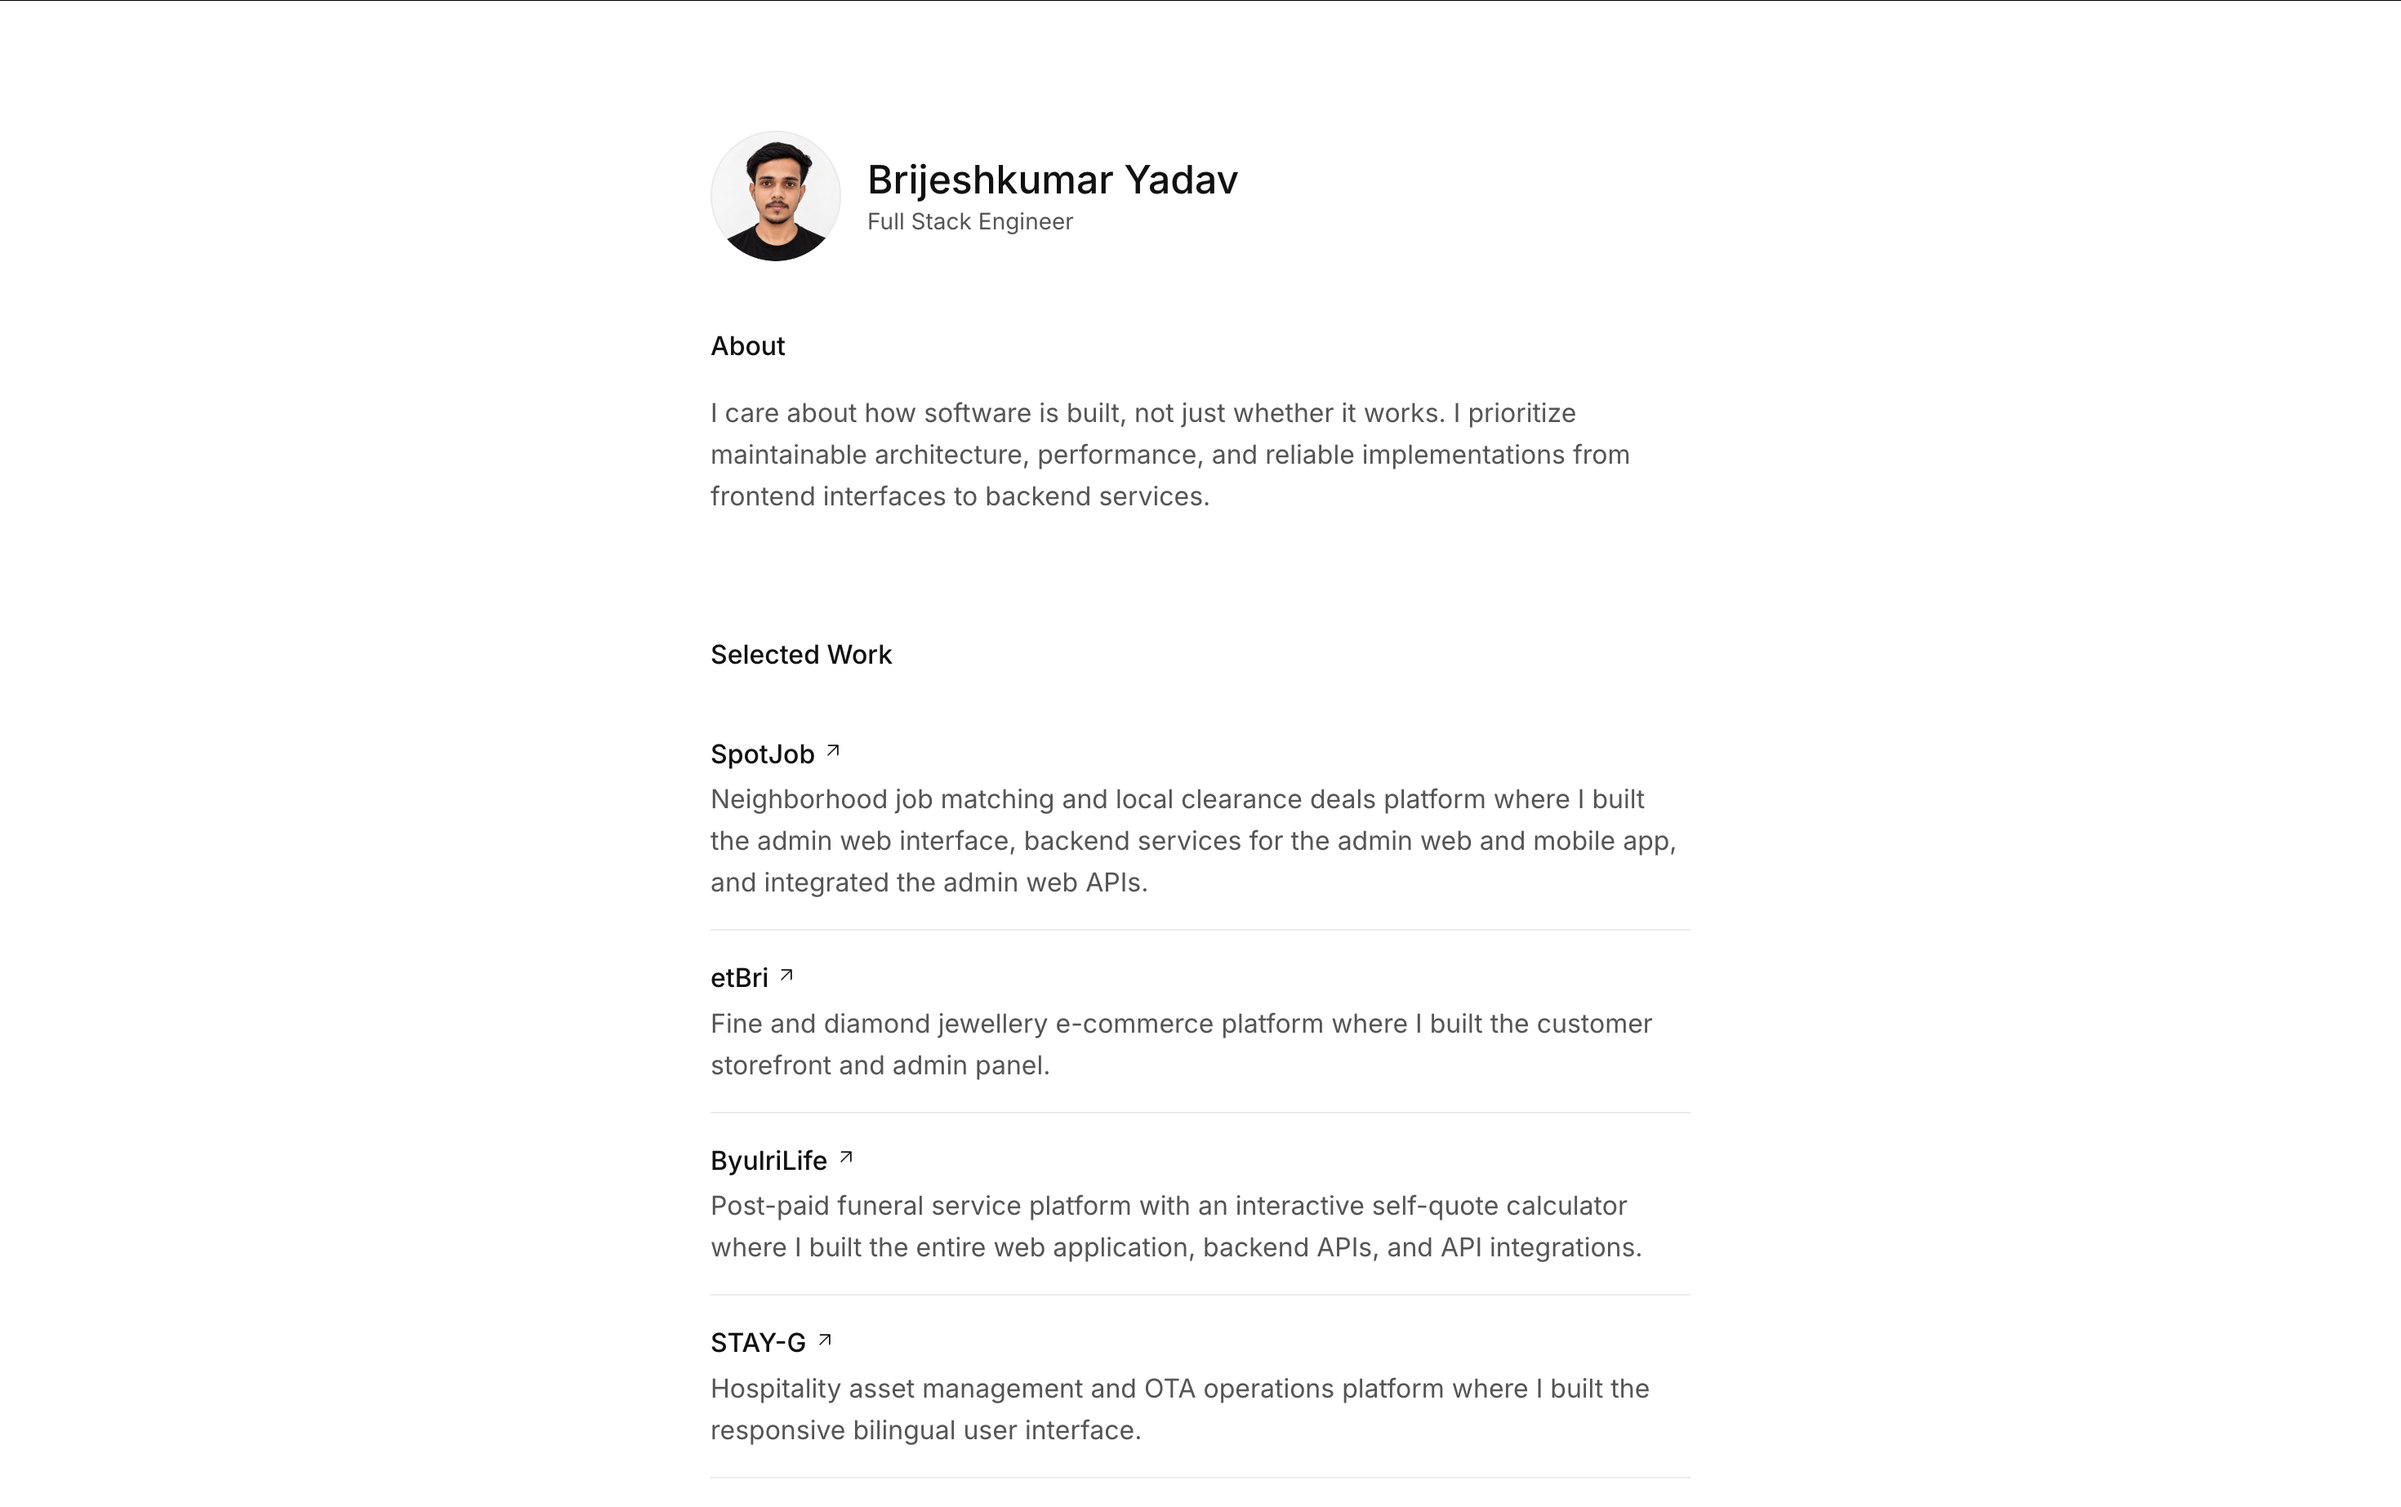
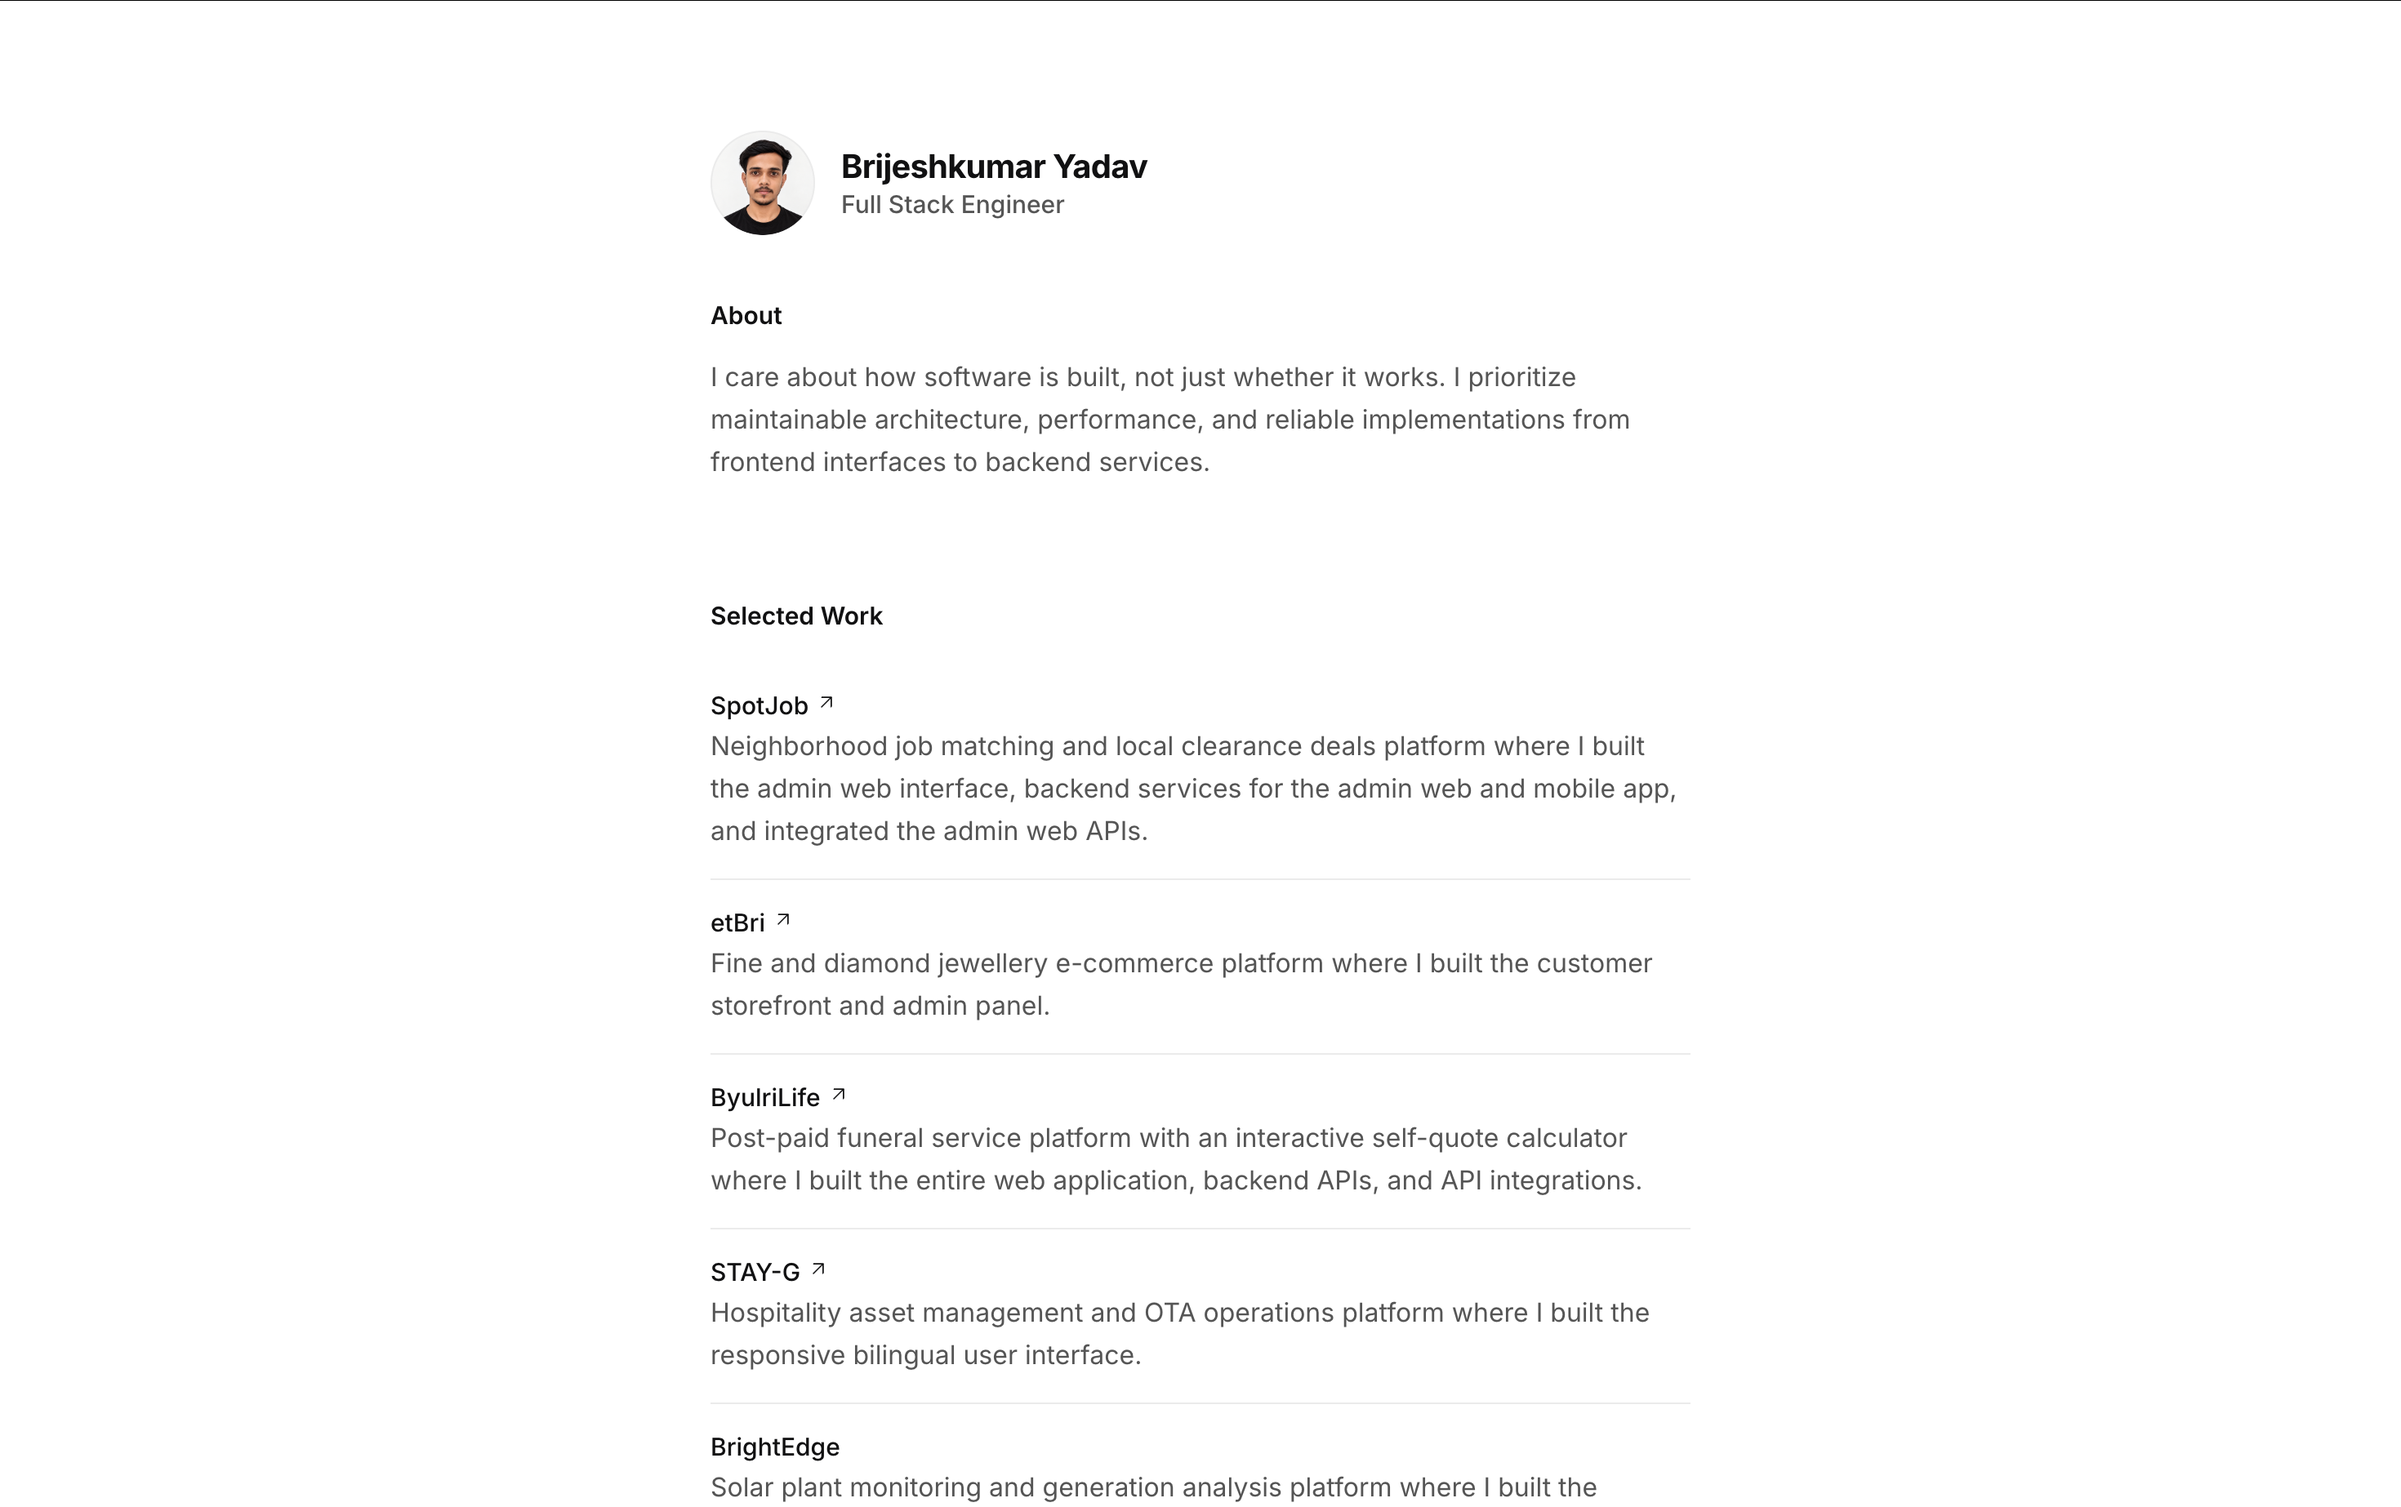
Refresh portfolio typography and screenshots

Changed region(s): [[0.2786, 0.4014, 0.681, 1.0], [0.2786, 0.2161, 0.681, 0.3397], [0.3095, 0.0926, 0.5262, 0.1853]]

diff --git a/src/components/elsewhere.tsx b/src/components/elsewhere.tsx
@@ -5,14 +5,14 @@ export function Elsewhere() {
     <section aria-labelledby="elsewhere-heading" className="mt-18 w-full">
       <h2
         id="elsewhere-heading"
-        className="mb-5 text-base/6 font-medium text-foreground"
+        className="mb-5 text-[15px]/[18px] font-semibold text-foreground"
       >
         Elsewhere
       </h2>
       <dl className="space-y-1">
         <div className="grid grid-cols-1 gap-1 py-3 min-[481px]:grid-cols-[112px_minmax(0,1fr)] min-[481px]:gap-4">
           <dt className="text-sm/6 text-muted-foreground">X</dt>
-          <dd className="m-0 text-base/[1.6] text-foreground">
+          <dd className="m-0 text-base/[26px] text-foreground">
             <a
               className="inline-flex items-center gap-1 underline-offset-4 hover:underline"
               href="https://x.com/brijeshmarch"
@@ -30,7 +30,7 @@ export function Elsewhere() {
         </div>
         <div className="grid grid-cols-1 gap-1 py-3 min-[481px]:grid-cols-[112px_minmax(0,1fr)] min-[481px]:gap-4">
           <dt className="text-sm/6 text-muted-foreground">LinkedIn</dt>
-          <dd className="m-0 text-base/[1.6] text-foreground">
+          <dd className="m-0 text-base/[26px] text-foreground">
             <a
               className="inline-flex items-center gap-1 underline-offset-4 hover:underline"
               href="https://www.linkedin.com/in/brijeshmarch16"
@@ -48,7 +48,7 @@ export function Elsewhere() {
         </div>
         <div className="grid grid-cols-1 gap-1 py-3 min-[481px]:grid-cols-[112px_minmax(0,1fr)] min-[481px]:gap-4">
           <dt className="text-sm/6 text-muted-foreground">GitHub</dt>
-          <dd className="m-0 text-base/[1.6] text-foreground">
+          <dd className="m-0 text-base/[26px] text-foreground">
             <a
               className="inline-flex items-center gap-1 underline-offset-4 hover:underline"
               href="https://github.com/brijeshmarch16"
@@ -66,7 +66,7 @@ export function Elsewhere() {
         </div>
         <div className="grid grid-cols-1 gap-1 py-3 min-[481px]:grid-cols-[112px_minmax(0,1fr)] min-[481px]:gap-4">
           <dt className="text-sm/6 text-muted-foreground">Email</dt>
-          <dd className="m-0 text-base/[1.6] text-foreground">
+          <dd className="m-0 text-base/[26px] text-foreground">
             <a
               className="inline-flex max-w-full items-center gap-1 break-all underline-offset-4 hover:underline"
               href="mailto:brijeshkumaryadav2026@gmail.com"

diff --git a/src/components/intro.tsx b/src/components/intro.tsx
@@ -5,15 +5,20 @@ export function Intro() {
     <section aria-labelledby="intro-heading" className="w-full">
       <header>
         <div className="flex items-center gap-4">
-          <Avatar className="size-20">
+          <Avatar className="size-16">
             <AvatarImage src="/me.png" alt="Brijeshkumar Yadav" />
             <AvatarFallback>BY</AvatarFallback>
           </Avatar>
           <div className="min-w-0">
-            <h1 id="intro-heading" className="text-2xl/[1.3] font-medium">
+            <h1
+              id="intro-heading"
+              className="text-[20px]/[26px] font-bold tracking-[-0.02em]"
+            >
               Brijeshkumar Yadav
             </h1>
-            <p className="text-sm text-muted-foreground">Full Stack Engineer</p>
+            <p className="text-[15px]/[20px] font-medium text-muted-foreground">
+              Full Stack Engineer
+            </p>
           </div>
         </div>
       </header>
@@ -21,11 +26,11 @@ export function Intro() {
       <section aria-labelledby="about-heading" className="mt-10">
         <h2
           id="about-heading"
-          className="mb-4 text-base/6 font-medium text-foreground"
+          className="mb-4 text-[15px]/[18px] font-semibold text-foreground"
         >
           About
         </h2>
-        <p className="text-base/[1.6] text-muted-foreground">
+        <p className="text-base/[26px] text-muted-foreground">
           I care about how software is built, not just whether it works. I
           prioritize maintainable architecture, performance, and reliable
           implementations from frontend interfaces to backend services.

diff --git a/src/components/experience.tsx b/src/components/experience.tsx
@@ -35,7 +35,7 @@ export function Experience() {
     <section aria-labelledby="experience-heading" className="mt-12 w-full">
       <h2
         id="experience-heading"
-        className="mb-5 text-base/6 font-medium text-foreground"
+        className="mb-5 text-[15px]/[18px] font-semibold text-foreground"
       >
         Work Experience
       </h2>
@@ -46,11 +46,11 @@ export function Experience() {
             key={`${item.role}-${item.period}`}
             className="grid grid-cols-1 gap-1 py-4 sm:grid-cols-[minmax(0,1fr)_minmax(0,1.6fr)] sm:gap-8 sm:py-5"
           >
-            <p className="text-sm/6 text-muted-foreground sm:pt-0.5">
+            <p className="text-sm/[18px] font-medium text-muted-foreground sm:pt-0.5">
               {item.period}
             </p>
             <div>
-              <h3 className="font-sans text-base/[1.6] font-medium">
+              <h3 className="font-sans text-[15px]/[20px] font-medium">
                 {item.employerUrl && item.employer ? (
                   <a
                     href={item.employerUrl}
@@ -69,7 +69,7 @@ export function Experience() {
                   item.role
                 )}
               </h3>
-              <p className="mt-0.5 text-sm/6 text-muted-foreground">
+              <p className="mt-0.5 text-[15px]/[20px] text-muted-foreground">
                 {item.location}
               </p>
             </div>

diff --git a/src/components/selected-work.tsx b/src/components/selected-work.tsx
@@ -43,7 +43,7 @@ export function SelectedWork() {
     <section aria-labelledby="selected-work-heading" className="mt-18 w-full">
       <h2
         id="selected-work-heading"
-        className="mb-5 text-base/6 font-medium text-foreground"
+        className="mb-5 text-[15px]/[18px] font-semibold text-foreground"
       >
         Selected Work
       </h2>
@@ -54,7 +54,7 @@ export function SelectedWork() {
           className="border-b border-border py-4 last:border-0"
         >
           <div className="min-w-0">
-            <h3 className="flex items-center gap-1 text-base/[1.6] font-medium text-card-foreground">
+            <h3 className="flex items-center gap-1 text-[15px]/[20px] font-medium text-card-foreground">
               {project.siteUrl ? (
                 <a
                   href={project.siteUrl}
@@ -73,7 +73,7 @@ export function SelectedWork() {
                 project.title
               )}
             </h3>
-            <p className="mt-0.5 text-base/[1.6] text-muted-foreground">
+            <p className="mt-0.5 text-base/[26px] text-muted-foreground">
               {project.description}
             </p>
           </div>

diff --git a/src/components/skills.tsx b/src/components/skills.tsx
@@ -26,7 +26,7 @@ export function Skills() {
     <section aria-labelledby="skills-heading" className="mt-18 w-full">
       <h2
         id="skills-heading"
-        className="mb-5 text-base/6 font-medium text-foreground"
+        className="mb-5 text-[15px]/[18px] font-semibold text-foreground"
       >
         Skills
       </h2>
@@ -37,8 +37,10 @@ export function Skills() {
             key={skill.category}
             className="grid grid-cols-1 gap-1 rounded-lg py-3 min-[481px]:grid-cols-[112px_minmax(0,1fr)] min-[481px]:gap-4"
           >
-            <dt className="text-sm/6 text-muted-foreground">{skill.category}</dt>
-            <dd className="m-0 text-base/[1.6] wrap-break-word text-card-foreground">
+            <dt className="text-[15px]/[20px] text-muted-foreground">
+              {skill.category}
+            </dt>
+            <dd className="m-0 text-base/[26px] wrap-break-word text-card-foreground">
               {skill.items}
             </dd>
           </div>

diff --git a/src/components/testimonials.tsx b/src/components/testimonials.tsx
@@ -49,7 +49,7 @@ export function Testimonials() {
     <section aria-labelledby="testimonials-heading" className="mt-18 w-full">
       <h2
         id="testimonials-heading"
-        className="mb-5 text-base/6 font-medium text-foreground"
+        className="mb-5 text-[15px]/[18px] font-semibold text-foreground"
       >
         Testimonials
       </h2>
@@ -61,7 +61,7 @@ export function Testimonials() {
             className="border-b border-border py-5 first:pt-0 last:border-0"
           >
             <blockquote>
-              <p className="mb-4 text-base/[1.65] text-muted-foreground">
+              <p className="mb-4 text-base/[26px] text-muted-foreground">
                 {testimonial.quote}
               </p>
             </blockquote>

diff --git a/src/components/site-footer.tsx b/src/components/site-footer.tsx
@@ -2,7 +2,7 @@ import { ThemeToggle } from "@/components/theme-toggle"
 
 export function SiteFooter() {
   return (
-    <footer className="mt-16 flex w-full items-center justify-between pt-4 pb-10 text-base text-muted-foreground">
+    <footer className="mt-16 flex w-full items-center justify-between pt-4 pb-10 text-base/[26px] text-muted-foreground">
       <span>© 2026 Brijeshkumar Yadav</span>
       <ThemeToggle />
     </footer>

diff --git a/src/components/contact-cta.tsx b/src/components/contact-cta.tsx
@@ -22,7 +22,7 @@ export function ContactCta() {
   }
 
   return (
-    <div className="mt-6 text-base/[1.6] text-muted-foreground">
+    <div className="mt-6 text-base/[26px] text-muted-foreground">
       <p>
         Open to full-time roles and freelance projects. Let&apos;s{" "}
         <a
